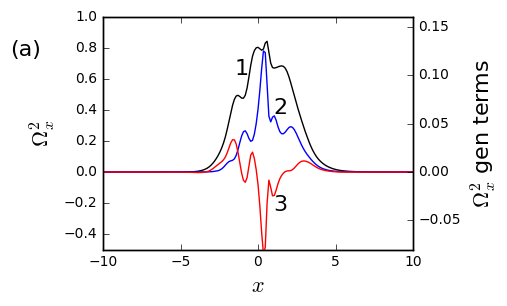
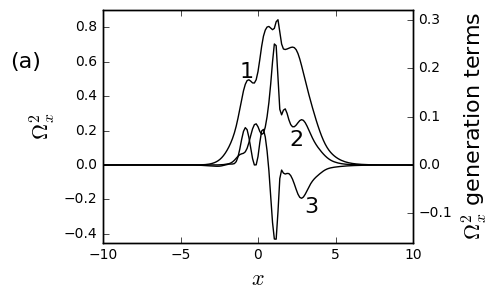
np contin section rewrited

diff --git a/ch4_other.tex b/ch4_other.tex
@@ -120,32 +120,24 @@ Je = \pd{F}{x} e = \pd{F}{e}.
 
 \begin{figure}
 \center{\includegraphics[width=0.9\linewidth]{ub_OXgen_map.png}}
-\caption{Для решения с верхней ветви в сечении, где амплитуда пульсаций достигает наибольшего значения, представлены: (a) --- $\Omega_x^2$, (b) и (c) --- вклад в формирование $\Omega_x^2$ со стороны слагаемых \eqref{time_OXgen_terms} и суммы других слагаемых в правой части \eqref{time_OX_eq}. Черная точка на рисунке (a) соответствует прямой, значения на которой представлены на рисунке \ref{ub_oxgen_lines_pic}. Ноль по оси $x$ расположен в сечении, где амплитуда пульсаций достигает максимума.}
+\caption{Механизм поддержания стационарных продольных вихрей в условно периодическом решении, принадлежащем верхней ветви, $\Re = 1700$. В сечении трубы, где пульсации достигают наибольшей амплитуды, приведены линии уровня: (a) --- $\Omega_x^2$, (b) и (c) --- вклад в поддержание $\Omega_x^2$ со стороны слагаемых \eqref{time_OXgen_terms} и суммы других слагаемых в правой части уравнения \eqref{time_OX_eq}. Сплошные линии соответствуют положительным значения, прерывистые --- отрицательным.}
 \label{ub_OXgen_pic}
 \end{figure}
 
 
-Механизм поддержания стационарных продольных вихрей в решении, принадлежащем верхней ветви, также согласуется с механизмом, выделенным при изучении модельного порыва. На рисунке \ref{ub_OXgen_pic}(a) приведен квадрат средней продольной завихренности $\Omega_x^2$ в одном сечении трубы. Его распределение по сечению трубы соответствует существованию пары продольных вихрей, расположенных между полосами повышенной и пониженной скорости. Определяющий вклад в образование $\Omega_x^2$ дают слагаемые \eqref{time_OXgen_terms}. Их вклад представлен на рисунке \ref{ub_OXgen_pic}(b). Вклад других слагаемых в правой части \eqref{time_OX_eq}, представленный на рисунке \ref{ub_OXgen_pic}(с), существенного влияния на форму продольных вихрей не оказывает. Также на рисунке \ref{ub_oxgen_lines_pic}(a) изображено распределение $\Omega_x^2$ и слагаемых, отвечающих за его формирование, на прямой, проходящей через область, занятую положительным вихрем. Он также подтверждает представления о том, что за образование продольных вихрей ответственно слагаемое \eqref{time_OXgen_terms}. Можно также отметить, что кривые 2 и 3 на рисунке \ref{ub_oxgen_lines_pic}(a) повторяют многие особенности друг друга, но с разным знаком, так что при сложении эти особенности пропадут. Это может быть связано с тем, что слагаемые \eqref{time_OXgen_terms} в этом случае не очень точно соответствуют слагаемым, представляющим физический механизм, ответственный за образование продольных вихрей. 
+Механизмы поддержания стационарных продольных вихрей в решении, принадлежащем верхней ветви, и в модельном порыве также согласуются. На рисунке \ref{ub_OXgen_pic}(a) приведен квадрат стационарной продольной завихренности $\Omega_{x, ub}^2$ в сечении трубы, где амплитуда пульсаций достигает наибольшей величины. Распределение $\Omega_{x,ub}^2$ по сечению трубы соответствует наличию пары продольных вихрей, расположенных между полосами повышенной и пониженной скорости (см. рис. \ref{local_ub_means_pic}(b)). На рисунках \ref{ub_OXgen_pic}(b,c) приведены значения слагаемых \eqref{time_OXgen_terms} и других слагаемых из правой части уравнения \eqref{time_OX1_eq}, умноженные на $2\Omega_{x,ub}$. Умножение слагаемых из правой части уравнения \eqref{time_OX1_eq} на $2\Omega_{x,ub}$ дает вклад этих слагаемых в поддержания поля $\Omega_{x,ub}^2$. Слагаемые \eqref{time_OXgen_terms} определяют форм поля стациоанрной продольной завихренности, вклад других слагаемых в правой части \eqref{time_OX1_eq} оказывается отрицательным. Нет сомнения, что за образование стационарных продольных вихрей в уравнении \eqref{time_OX1_eq} ответственны слагаемые \eqref{time_OXgen_terms}. Дополнительно, на рисунке \ref{ub_oxgen_lines_pic}(a) приведено значение $\Omega_x^2$ и слагаемых, отвечающих за его формирование, на прямой, проходящей через область, занятую положительным вихрем, $r = 0.6, \theta = \pi/10$. Картина течения в этом случае значительно сложнее, чем в модельном порыве (см. рис. \ref{xline_oxgen_pic}(a)). Тем не менее, графики на рисунке \ref{ub_oxgen_lines_pic}(a) также подтверждают представление о том, что за образование продольных вихрей ответственно слагаемое \eqref{time_OXgen_terms}. 
  
 
 \begin{figure}
 \center{\includegraphics[width=0.5\linewidth]{ub_OXgen_lines.png}\includegraphics[width=0.5\linewidth]{ub_ox1gen_lines.png}}
-\caption{Для решения с верхней ветви на прямой, проходящей через область, занятую положительным вихрем, при $r = 0.6$, $\theta = \pi/10$, представлены: график (a) --- $\Omega_x^2$ (кривая 1) и вклад в его формирование со стороны слагаемых \eqref{time_OXgen_terms} (кривая 2) и других слагаемых в правой части \eqref{time_OX_eq} (кривая 3); график (b) --- $\overline{\omega'_x\omega'_x}^t$ (кривая 1) и вклад в её формирование со стороны слагаемых \eqref{time_ox1gen_terms1} (кривая 2), слагаемого \eqref{time_ox1gen_term2} (кривая 3) и других слагаемых в правой части уравнения \eqref{time_ox1_eq} (кривая~4). Выделенной прямой соответствует черная точка на рисунке \ref{ub_OXgen_pic}(a). Соответствующий рисунок для модельного порыва --- \ref{xline_oxgen_pic}.} 
+\caption{Механизм поддержания продольных вихрей в условно периодическом решении, принадлежащем верхней ветви, $\Re = 1700$. На прямой, проходящей через область, занятую положительным вихрем, $r = 0.6$, $\theta = \pi/10$, приведены значения: (a) --- $\Omega_x^2$ (кривая 1) и вклад в его поддержание со стороны слагаемых \eqref{time_OXgen_terms} (кривая 2) и других слагаемых в правой части \eqref{time_OX1_eq} (кривая 3); (b) --- $\overline{\omega'_x\omega'_x}^t$ (кривая 1) и вклад в её поддержание со стороны слагаемого \eqref{time_ox1gen_term2} (кривая 2) и других слагаемых в правой части уравнения \eqref{time_ox1_eq} (кривая~3).} 
 \label{ub_oxgen_lines_pic}
 \end{figure}
 
 
-Механизм образования пульсационной составляющей продольной завихренности также сохраняется. На рисунке \ref{ub_oxgen_lines_pic}(b) также, как на рисунке (a), приведено значение амплитуды пульсационной составляющей движения $\overline{\omega'_x\omega'_x}^t$ и вклад в её образование со стороны различных слагаемых в уравнении \eqref{time_ox1_eq}. В области существования продольных вихрей определяющий вклад в образование пульсаций продольной завихренности дает слагаемое \eqref{time_ox1gen_term2}. Его вклад в $\overline{\omega'_x\omega'_x}^t$ изображен кривой 3. Другие слагаемые в правой части \eqref{time_ox1_eq} дают значительно меньший вклад. В частности, слагаемое \eqref{time_ox1gen_terms1}, ответственное за поворот нормальных к стенке вихрей, возникающих в пульсационной составляющей движения, в выделенной области близко к нулю. В этом случае также можно отметить неточность разделения на слагаемых в правой части \eqref{time_ox1_eq} на связанные и несвязанные в механизмом образования пульсаций $\omega'_x$, так как кривые 3 и 4 имеют ряд особенностей, пропадающих при сложении.
+То, что слагаемые \eqref{time_OXgen_terms} не равны нулю, говорит о наличии согласованности между пульсациями продольной скорости и пульсациями продольной завихренности. Объяснить наличие согласованности позволяет механизм образования пульсаций продольной завихренности, выделенный в рассматриваемом решении. Механизмы образования пульсаций продольной завихренности в рассматриваемом решении и в модельном порыве также согласуются. В уравнении \eqref{time_ox2_eq}, описывающем эволюцию пульсаций продольной завихренности $\omega'_{x,ub}$, за образование $\omega'_{x,ub}$ в области расположения продольных вихрей отвечает слагаемое \eqref{time_ox1gen_term2}. На рисунке \ref{ub_oxgen_lines_pic}(b) также, как на рисунке (a), приведено значение амплитуды пульсационной составляющей движения $\overline{\omega'_{x,ub}\omega'_{x,ub}}^t$ и вкладов в её образование со стороны слагаемых \eqref{time_ox1gen_term2} и других слагаемых в правой части уравнения \eqref{time_ox2_eq}. Вклад слагаемых уравнения \eqref{time_ox2_eq} в поддержание $\overline{\omega'_{x,ub}\omega'_{x,ub}}^t$ получен их домножением на $2\omega'_{x,ub}$ с последующим осреднением по времени. Слагаемое \eqref{time_ox1gen_term2} дает определяющий вклад в производство  $\overline{\omega'_{x,ub}\omega'_{x,ub}}^t$ в то время, как другие слагаемые в правой части уравнения \eqref{time_ox2_eq} оказываются преимущественно отрицательное влияние. Механизм образования пульсаций продольной завихренности, выраженный слагаемым \eqref{time_ox1gen_term2}, состоит в сжатии и растяжении вихревых нитей, соответствующих стационарным продольным вихрям, пульсациями продольной скорости. Детали механизм образования стационарных продольных вихрей и пульсаций продольной завихренности приведены в разделе \ref{edge_oxgen}.
 
-Таким образом, весь цикл самоподдержания, выделенный при изучении модельного порыва, может быть обобщен на описанное в разделе решение с верхней ветви. 
-
-\begin{comment}
-\begin{figure}
-\center{\includegraphics[width=0.6\linewidth]{ub_ox1gen_map.png}}
-\caption{Для решения с верхней ветви в сечении, где амплитуда пульсаций достигает наибольшей величины, представлена величина $\overline{\omega'_x \omega'_x}^t$ (график a) и вклад в её формирование со стороны слагаемых \eqref{time_ox1gen_terms1} (график b),  слагаемых  \eqref{time_ox1gen_term2} (график с) и других слагаемых в правой части уравнения \eqref{time_ox1_eq} (график d). }
-\label{ub_ox1gen_pic}
-\end{figure}
-\end{comment}
+Продолжая модельный порыв по числу Рейнольдса, удалось достичь точки бифуркации, в которой рождаются две ветви решений, и перейти с нижней ветви на верхнюю. Двигаясь по верхней ветви решений в сторону увеличения числа Рейнольдса удалось получить новые условно периодические решения с локализованной структурой, по ряду качественных характеристик оказывающихся ближе к турбулентному порыву, чем исходное решение. Были описаны основные характеристики решения с верхней ветви и механизм поддержания колебаний в нем. Все основные элементы цикла поддержания колебаний в решении, принадлежащем верхней ветви, и в модельном порыве совпадают. Периодичность решения по времени в сопутствующей системе отсчета позволяет разделить его поле скорости на среднюю и пульсационную составляющие осреднением по времени. Показано, что пульсационная составляющая движения возникает в результате линейной неустойчивости среднего течения. В среднем течении выделяются полосы повышенной и пониженной скорости, вытянутые вдоль потока. Пульсации оказываются сконцентрированы между полосами повышенной и пониженной скорости, где в среднем течении находятся точки перегиба, если рассматривать его как функцию угловой координаты. Вероятно, механизм образования пульсаций является механизмом типа Кельвина--Гельмгольца. В потоке существуют стационарные продольные вихри, поддерживающие существование полос. Существование продольных вихрей, в свою очередь, поддерживается нелинейным взаимодействием пульсаций продольной скорости и пульсаций продольной завихренности. В области расположения продольны вихрей пульсации продольной завихренности образуются за счет сжатия и растяжения существующих вихревых нитей пульсациями продольной скорости. Таким образом, формируется необходимая для поддержания продольных вихрей согласованность между пульсациями продольной скорости и пульсациями продольной завихренности. 
 
 \section{Исследование решений в виде бегущей волны в течении в круглой трубе}
 
